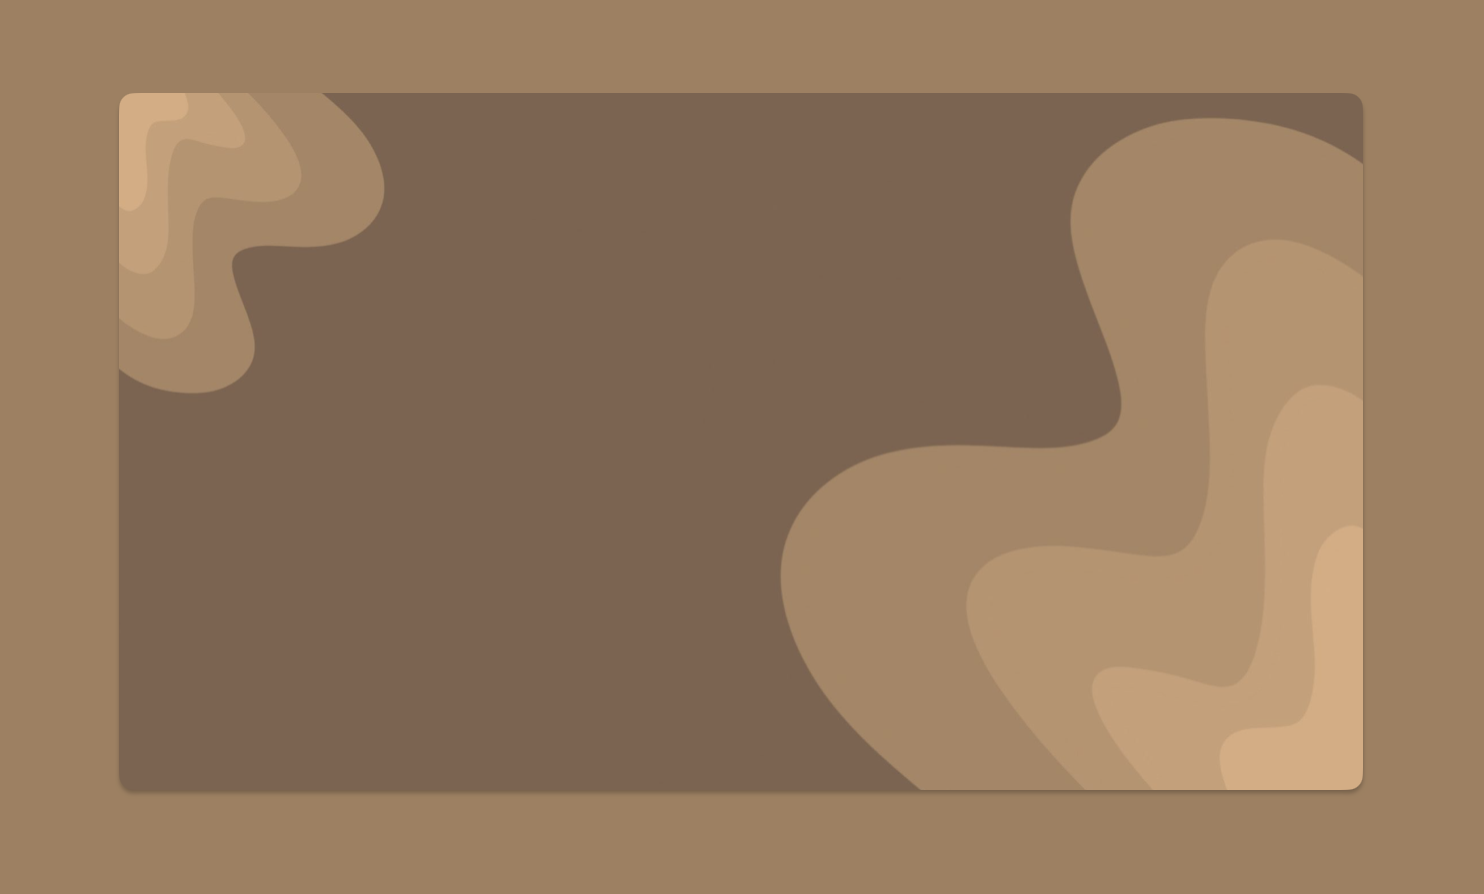
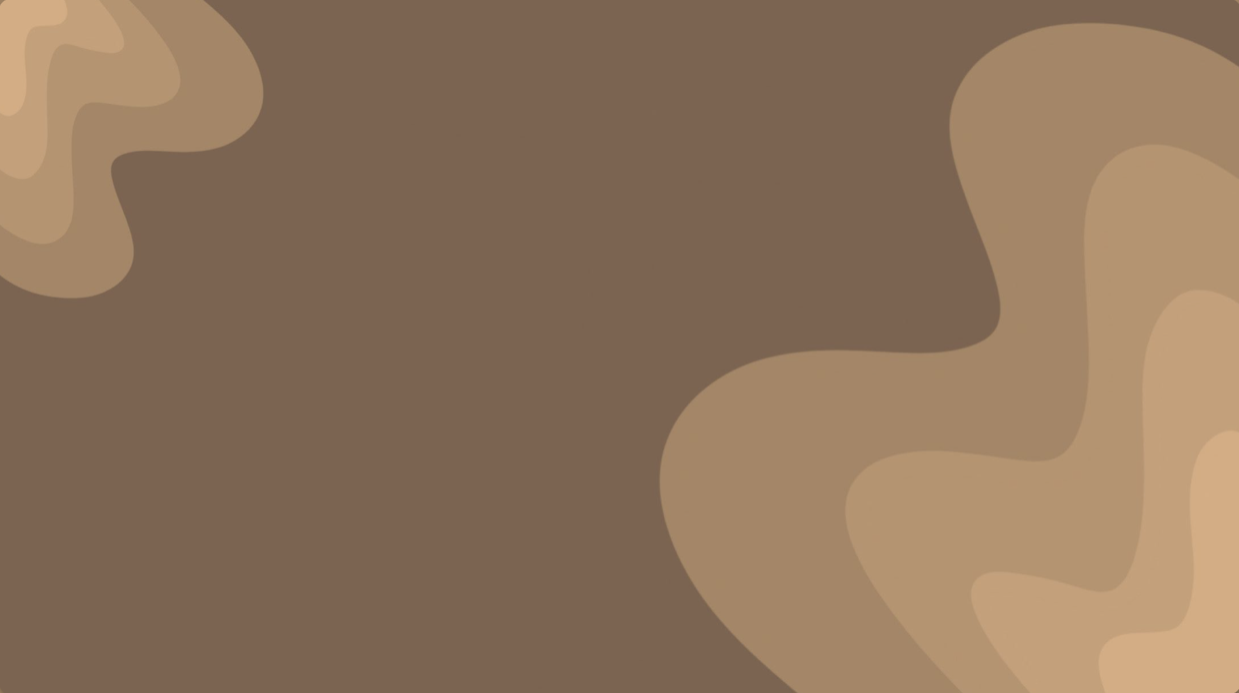
updated

diff --git a/lib/main.dart b/lib/main.dart
@@ -60,13 +60,25 @@ class _MyHomePageState extends State<MyHomePage> {
   @override
   Widget build(BuildContext context) {
     return Scaffold(
-      body: Container(
-        decoration: BoxDecoration(
-          image: DecorationImage(
-            image: AssetImage('./../assets/assets/images/back_front_new.png'),
-            fit: BoxFit.cover,
-          ),
-        ),
+      body: Center(
+        child: Container(
+            width: 1200,
+            height: 700,
+            decoration: BoxDecoration(
+              image: DecorationImage(
+                image: AssetImage('assets/images/back_front_new.png'), // Set your background image here
+                fit: BoxFit.cover,
+              ),
+              borderRadius: BorderRadius.circular(15),
+              boxShadow: [
+                BoxShadow(
+                  color: Colors.black.withOpacity(0.3),
+                  blurRadius: 5,
+                  offset: Offset(0, 3),
+                ),
+              ],
+            ),
+      
         
         child: SingleChildScrollView(
           physics: AlwaysScrollableScrollPhysics(),
@@ -75,7 +87,7 @@ class _MyHomePageState extends State<MyHomePage> {
             crossAxisAlignment: CrossAxisAlignment.center,
             children: [
               Container(
-                margin: EdgeInsets.only(top: 70, left:115, right: 115),
+                
                 child: 
               Card(
                 elevation: 5,
@@ -205,7 +217,7 @@ class _MyHomePageState extends State<MyHomePage> {
                       ).toList(),
                     ),
              Container(
-                margin: EdgeInsets.only(bottom: 170, left:115, right: 115),
+                
                 child: 
               
               
@@ -261,6 +273,7 @@ class _MyHomePageState extends State<MyHomePage> {
   
 
                   ],
+          ),
   ),
 ),
 
@@ -271,7 +284,7 @@ class _MyHomePageState extends State<MyHomePage> {
             
           ),
         );
-            
+        
       
       
     

diff --git a/lib/sensor.dart b/lib/sensor.dart
@@ -20,6 +20,16 @@ class Sensorspage extends StatelessWidget {
     return Scaffold(
       body: Column(
         children: [
+          AppBar(
+              title: Text(
+                'SENSORS',
+                style: TextStyle(
+                  fontSize: 28,
+                  fontWeight: FontWeight.bold,
+                  color: Color.fromARGB(255, 81, 34, 3),
+                ),
+              ),
+            ),
           
        
        Expanded(

diff --git a/index.html b/index.html
@@ -14,7 +14,7 @@
     This is a placeholder for base href that will be replaced by the value of
     the `--base-href` argument provided to `flutter build`.
   -->
-  <base href="./">
+  <base href="/">
 
   <meta charset="UTF-8">
   <meta content="IE=Edge" http-equiv="X-UA-Compatible">

diff --git a/web/index.html b/web/index.html
@@ -14,7 +14,7 @@
     This is a placeholder for base href that will be replaced by the value of
     the `--base-href` argument provided to `flutter build`.
   -->
-  <base href="./">
+  <base href="/">
 
   <meta charset="UTF-8">
   <meta content="IE=Edge" http-equiv="X-UA-Compatible">
